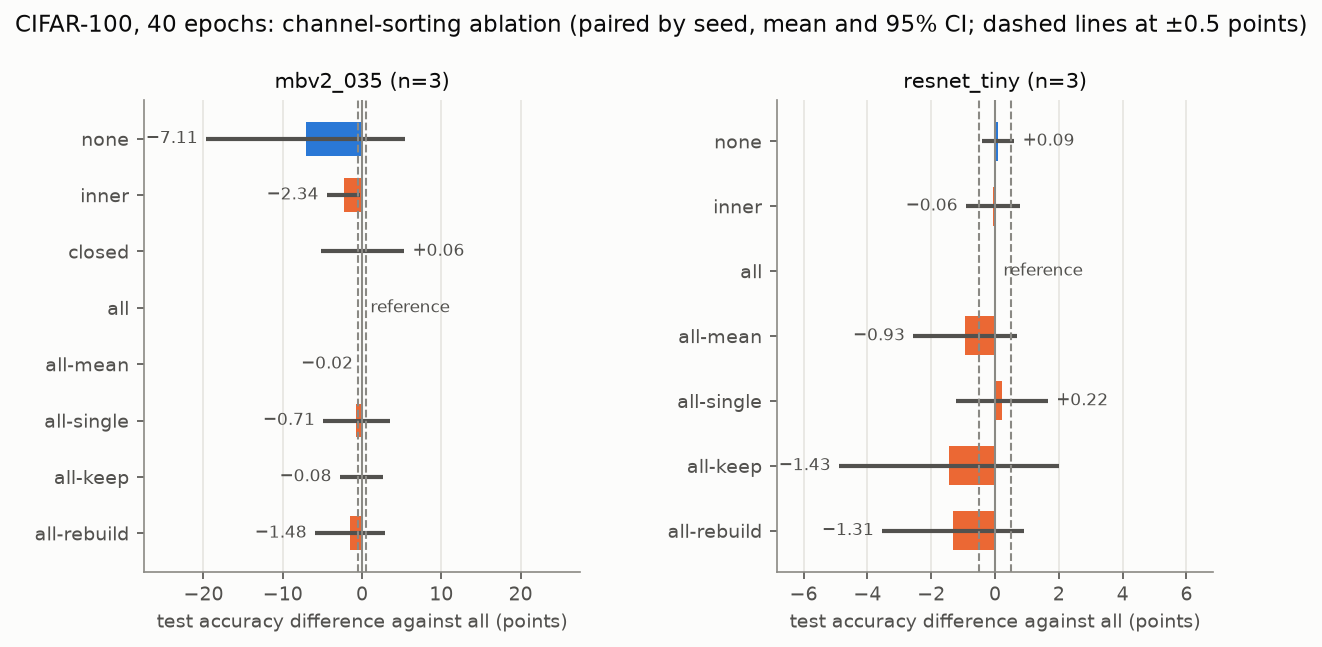
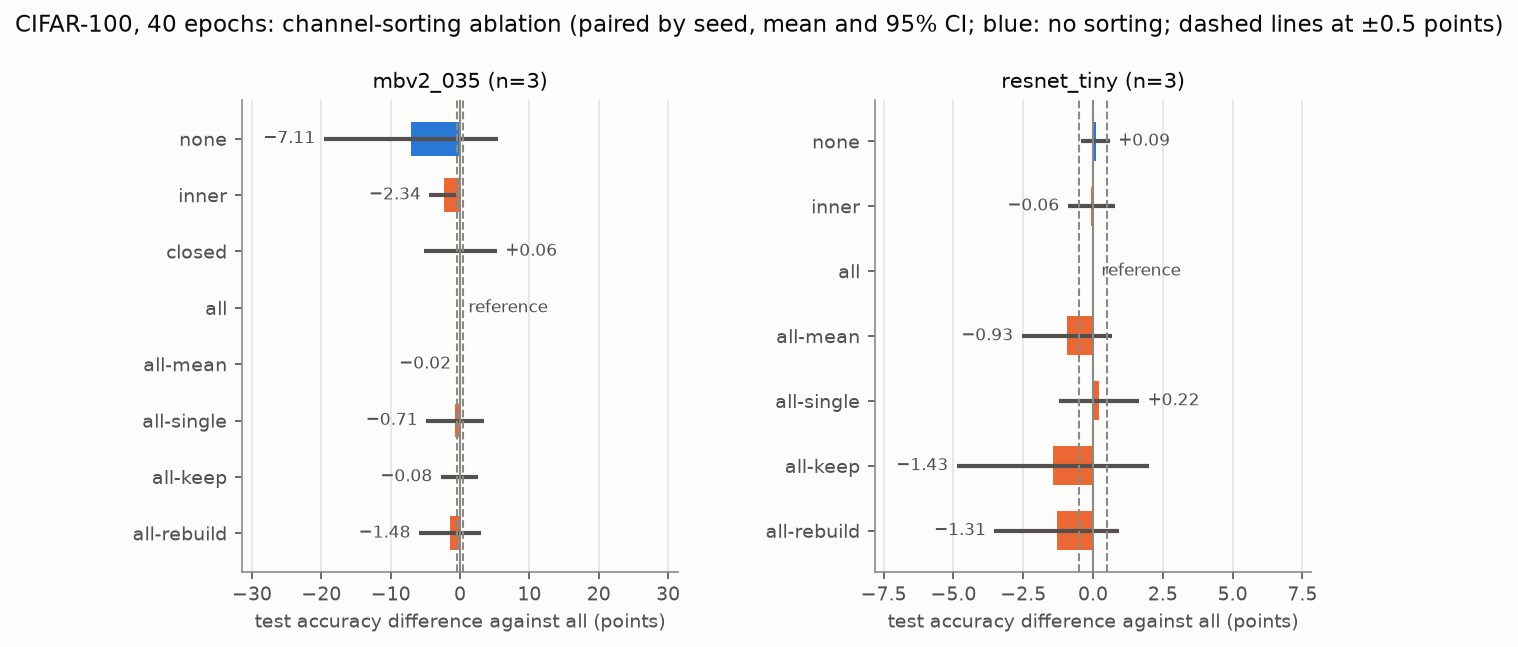
Sorting ablation: apply review fixes, float64 check of the sort
- Observations: per-seed numbers, paired differences against the
  baseline, multiple-comparison caveat, and inconclusive wording where
  the confidence interval allows no decision.
- MobileNetV2 output change after sorting (up to 7.9e-3 in float32) is
  float32 rounding: a float64 rerun gives at most 7.4e-14.
- Limitations: the 3-seed ablation has much wider intervals.
- Reproduction: baseline seeds 0, 1, 2.
- Plot: more room for value labels; note that blue means no sorting.

diff --git a/examples/sort_report.py b/examples/sort_report.py
@@ -256,7 +256,7 @@ def plot(groups: dict, out: Path) -> Path | None:
         ax.axvline(0, color=MUTED, linewidth=1)
         for x in (-THRESHOLD, THRESHOLD):
             ax.axvline(x, color=MUTED, linewidth=1, linestyle="--")
-        span = max(extent) * 1.4  # room for the value labels
+        span = max(extent) * 1.6  # room for the value labels
         ax.set_xlim(-span, span)
         ax.set_yticks(ys, settings)
         ax.grid(axis="y", visible=False)
@@ -268,7 +268,9 @@ def plot(groups: dict, out: Path) -> Path | None:
     head = f"{DATASETS.get(ds, ds)}, {ep} epochs: " if one_facet else ""
     many = any(len(rs) > 1 for f in facets for rs in groups[f].values())
     stat = "paired by seed, mean and 95% CI; " if many else ""
-    fig.suptitle(f"{head}channel-sorting ablation ({stat}dashed lines at ±{THRESHOLD:g} points)", y=1.02)
+    fig.suptitle(
+        f"{head}channel-sorting ablation ({stat}blue: no sorting; dashed lines at ±{THRESHOLD:g} points)", y=1.02
+    )
     fig.subplots_adjust(wspace=0.45)
     out.mkdir(parents=True, exist_ok=True)
     save(fig, out, "sort_ablation.png")

diff --git a/docs/experiments.en.md b/docs/experiments.en.md
@@ -206,11 +206,11 @@ Values are means over 3 seeds; differences are means of the per-seed paired diff
 
 Observations:
 
-1. **On MobileNetV2, the NetAug result changes a lot from seed to seed, and sorting reduces the loss.** Without sorting, the 3 seeds give 36.50%, 28.06% and 13.46%. The baseline with the same seeds gives 41.61%, 41.81% and 41.08% (seeds 1 and 2 were run separately, results in `runs/sort_ablation_baseline.jsonl`). `all` is above `none` in every seed (+3.41, +5.06 and +12.87 percentage points), but still 1.70 to 14.75 percentage points below the baseline. The confidence interval includes 0, so "sorting helps MobileNetV2" is undecided.
-2. **On MobileNetV2, the sort scope of the official implementation (`inner`) is worse than `all`**: −2.34 [−4.43, −0.25], negative in all 3 seeds (−1.96, −3.30 and −1.75). `closed` and `all` show no measurable difference.
-3. **On TinyResNet, sorting gives no real gain**: `all` against `none` is −0.09 [−0.60, +0.42], and `inner` against `none` is −0.15 [−0.55, +0.24]. Both upper bounds are below +0.5.
-4. **How the importance is combined and what happens to the optimizer state have no measurable effect.** On MobileNetV2, `all-mean` chooses almost the same permutation as `all` (0.1 groups different per sort on average); the difference is −0.02 [−0.08, +0.03]. The other settings have mean differences from −1.48 to +0.22 percentage points, and all their confidence intervals include 0.
-5. **Sorting keeps the function the same, but the two models move very different numbers of channels into the base.** The largest change of the max-width output, relative to the largest logit, is at most 7e-7 for TinyResNet and at most 7.4e-4 for MobileNetV2 (7.9e-3 against a logit of 10.8; the cause was not checked). On TinyResNet, the 39 sorts of a run move 0 to 2 channels into the base in total (as in Sections 3.2 and 4.5); on MobileNetV2 they move 931 to 4,500 channels. This difference may be why sorting has a clear effect only on MobileNetV2 (not proven).
+1. **On MobileNetV2, the NetAug result changes a lot from seed to seed; in these 3 seeds, sorting reduced the loss.** Without sorting, the seeds give 36.50%, 28.06% and 13.46%. The baseline with the same seeds gives 41.61%, 41.81% and 41.08% (seed 0 in `runs/diag/mbv2_default_init/`, seeds 1 and 2 in `runs/sort_ablation_baseline.jsonl`). `all` is above `none` in every seed (+3.41, +5.06 and +12.87 percentage points), but the confidence interval includes 0, so the result is inconclusive. Against the baseline, `none` is −15.49 [−43.70, +12.72] and `all` is −8.38 [−24.60, +7.84], negative in all 3 seeds; even the exported ×3 model (3.72 million parameters) reaches at most 34.21%.
+2. **On MobileNetV2, the sort scope of the official implementation (`inner`) is worse than `all`**: −2.34 [−4.43, −0.25], negative in all 3 seeds (−1.96, −3.30 and −1.75). This is one of 13 comparisons against `all`, with no correction for multiple comparisons. `closed` against `all` is +0.06 [−5.20, +5.32]: inconclusive.
+3. **On TinyResNet, sorting gives no real gain**: `all` against `none` is −0.09 [−0.60, +0.42], and `inner` against `none` is −0.15 [−0.55, +0.24]. Both upper bounds are below +0.5. The other settings are inconclusive against `none`.
+4. **For how the importance is combined and what happens to the optimizer state, only `all-mean` (MobileNetV2) gives a decision.** It chooses almost the same permutation as `all` (0.1 groups different per sort on average); the difference is −0.02 [−0.08, +0.03]: no real difference. All other settings are inconclusive (confidence intervals 2.9 to 8.9 percentage points wide). On TinyResNet, `all-mean`, `all-keep` and `all-rebuild` are below `all` in all 3 seeds, and the exported widths of `all-keep` and `all-rebuild` are also 1.0 to 1.4 percentage points lower.
+5. **Sorting keeps the function the same.** The largest change of the max-width output, relative to the largest logit, is at most 6.7e-7 for TinyResNet and at most 7.3e-4 for MobileNetV2 (7.9e-3 against a logit of 10.8). Because the MobileNetV2 value is larger, it was checked again in float64: in a 10-epoch rerun (`all-single`, seed 2), the output difference before and after each sort is at most 7.4e-14 in float64, while the same sorts give 2e-6 to 1.4e-4 in float32. So this is float32 rounding error amplified by the network, not a change of the function. The numbers of channels moved into the base are very different: the 39 sorts of a TinyResNet run move 0 to 2 channels in total (as in Sections 3.2 and 4.5), and those of a MobileNetV2 run move 931 to 4,500. This may be why only the MobileNetV2 result changes clearly with sorting (not proven).
 
 ### 4.8 Possible causes (not proven)
 
@@ -218,7 +218,7 @@ The gains of the paper come from MobileNet-class models on ImageNet, where augme
 
 ## 5. Limitations
 
-- CIFAR-10 has only 3 seeds per setting; CIFAR-100 has 8 seeds per setting; Section 4.6 (MobileNetV2) has only 1 seed, and the sorting ablation has only 3 seeds. Differences smaller than about 0.5 percentage points cannot be told apart from seed noise.
+- CIFAR-10 has only 3 seeds per setting; CIFAR-100 has 8 seeds per setting; Section 4.6 (MobileNetV2) has only 1 seed, and the sorting ablation has only 3 seeds. In the 8-seed TinyResNet experiments, differences smaller than about 0.5 percentage points cannot be told apart from seed noise; the 3-seed sorting ablation is much less certain (confidence interval half-widths up to 3.9 percentage points on TinyResNet and 16.7 on MobileNetV2).
 - Only 40 epochs (80 for a control), 32×32 images and two architectures were used. ImageNet was not tested.
 - During some runs the GPU was also running other programs, and the second batch ran in fp16 on a Colab Tesla T4, so the run times are only approximate.
 
@@ -244,4 +244,4 @@ uv run python examples/sort_report.py runs/sort_ablation.jsonl --lang en --plot 
 - Main options of `cifar_netaug.py`: `--width` (base width multiplier), `--depth`, `--init {base,max}`, `--stop-aug`, `--sort-every`, `--granularity {group,global}`, `--grad-log-every N`, `--amp {bf16,fp16,off}`, `--warmup N`.
 - `sort_report.py` prints the results table of Section 4.7 to standard output (`--lang zh` gives the Chinese header row); `--plot` writes `sort_ablation.png`.
 - `examples/run_cifar100_regime.sh` is an earlier CIFAR-100 control script. This document does not use its results.
-- MobileNetV2: `uv run python examples/cifar_netaug.py --model {mbv2_035,mbv2_050} --method {baseline,netaug} --dataset cifar100 --epochs 40 --seed 0 --eval-widths 1.0 2.0 3.0 --out <file>`, optionally with `--warmup 5`, `--grad-log-every 20`, `--alpha 0`, or `--lr 0.05 --wd 1e-3`.
+- MobileNetV2: `uv run python examples/cifar_netaug.py --model {mbv2_035,mbv2_050} --method {baseline,netaug} --dataset cifar100 --epochs 40 --seed {0,1,2} --eval-widths 1.0 2.0 3.0 --out <file>`, optionally with `--warmup 5`, `--grad-log-every 20`, `--alpha 0`, or `--lr 0.05 --wd 1e-3`.

diff --git a/docs/experiments.md b/docs/experiments.md
@@ -206,11 +206,11 @@ CIFAR-100，40 epoch，seed 0, 1, 2。
 
 觀察：
 
-1. **MobileNetV2 上，NetAug 的結果在 seed 之間差很多，排序減少了損失。** 不排序時 3 個 seed 是 36.50%、28.06%、13.46%；同 seed 的 baseline 是 41.61%、41.81%、41.08%（seed 1、2 另外執行，結果在 `runs/sort_ablation_baseline.jsonl`）。`all` 在每個 seed 都比 `none` 高（+3.41、+5.06、+12.87 個百分點），但仍比 baseline 低 1.70 到 14.75 個百分點。信賴區間跨過 0，所以「排序對 MobileNetV2 有增益」判讀為無法判定。
-2. **MobileNetV2 上，官方實作的排序範圍（`inner`）比 `all` 差**：−2.34 [−4.43, −0.25]，3 個 seed 都是負的（−1.96、−3.30、−1.75）。`closed` 和 `all` 沒有可分辨的差異。
-3. **TinyResNet 上，排序沒有實質增益**：`all` 對 `none` 是 −0.09 [−0.60, +0.42]，`inner` 對 `none` 是 −0.15 [−0.55, +0.24]，上限都小於 +0.5。
-4. **重要度的合計方式與 optimizer 狀態的處理沒有可分辨的效果。** MobileNetV2 上 `all-mean` 幾乎選出和 `all` 相同的排列（每次排序平均 0.1 個群組不同），差異 −0.02 [−0.08, +0.03]。其他設定的平均差異在 −1.48 到 +0.22 個百分點之間，信賴區間都跨過 0。
-5. **排序保持函數不變，但兩個模型移入 base 的通道數差很多。** 最大寬度輸出的最大變化相對於最大 logit：TinyResNet 在 7e-7 以內，MobileNetV2 在 7.4e-4 以內（7.9e-3 對 logit 10.8，原因未檢查）。TinyResNet 每個執行的 39 次排序合計只移入 0 到 2 個通道（與第 3.2、4.5 節一致），MobileNetV2 合計移入 931 到 4,500 個通道。排序只在 MobileNetV2 上有明顯影響，可能和這個差別有關（未證實）。
+1. **MobileNetV2 上，NetAug 的結果在 seed 之間差很多；這 3 個 seed 中，排序都減少了損失。** 不排序時是 36.50%、28.06%、13.46%。同 seed 的 baseline 是 41.61%、41.81%、41.08%（seed 0 在 `runs/diag/mbv2_default_init/`，seed 1、2 在 `runs/sort_ablation_baseline.jsonl`）。`all` 在每個 seed 都比 `none` 高（+3.41、+5.06、+12.87 個百分點），但信賴區間跨過 0，判讀為無法判定。對 baseline，`none` 是 −15.49 [−43.70, +12.72]，`all` 是 −8.38 [−24.60, +7.84]，3 個 seed 都是負的；匯出的 ×3 模型（372 萬個參數）最高也只有 34.21%。
+2. **MobileNetV2 上，官方實作的排序範圍（`inner`）比 `all` 差**：−2.34 [−4.43, −0.25]，3 個 seed 都是負的（−1.96、−3.30、−1.75）。這是對 `all` 的 13 個比較之一，沒有做多重比較校正。`closed` 對 `all` 是 +0.06 [−5.20, +5.32]，判讀為無法判定。
+3. **TinyResNet 上，排序沒有實質增益**：`all` 對 `none` 是 −0.09 [−0.60, +0.42]，`inner` 對 `none` 是 −0.15 [−0.55, +0.24]，上限都小於 +0.5。其他設定對 `none` 都是無法判定。
+4. **重要度的合計方式與 optimizer 狀態的處理，只有 `all-mean`（MobileNetV2）可以判讀。** 它幾乎選出和 `all` 相同的排列（每次排序平均 0.1 個群組不同），差異 −0.02 [−0.08, +0.03]，沒有實質差異。其他設定都是無法判定（信賴區間寬 2.9 到 8.9 個百分點）。TinyResNet 上 `all-mean`、`all-keep`、`all-rebuild` 在 3 個 seed 都低於 `all`；`all-keep` 與 `all-rebuild` 匯出的各寬度也低 1.0 到 1.4 個百分點。
+5. **排序保持函數不變。** 最大寬度輸出的最大變化相對於最大 logit：TinyResNet 在 6.7e-7 以內，MobileNetV2 在 7.3e-4 以內（7.9e-3 對 logit 10.8）。MobileNetV2 的值較大，所以另外用 float64 重算：重跑 10 epoch（`all-single`、seed 2），每次排序前後的輸出差異在 float64 下是 7.4e-14 以內，同一次排序在 float32 下是 2e-6 到 1.4e-4。所以這是 float32 的捨入誤差被網路放大，不是排序改變了函數。移入 base 的通道數差很多：TinyResNet 每個執行的 39 次排序合計 0 到 2 個（與第 3.2、4.5 節一致），MobileNetV2 是 931 到 4,500 個。這可能是只有 MobileNetV2 的結果隨排序明顯變化的原因（未證實）。
 
 ### 4.8 可能的原因（未證實）
 
@@ -218,7 +218,7 @@ CIFAR-100，40 epoch，seed 0, 1, 2。
 
 ## 5. 限制
 
-- CIFAR-10 每種設定只有 3 個 seed；CIFAR-100 每種設定 8 個 seed；MobileNetV2 的第 4.6 節只有 1 個 seed，排序消融只有 3 個 seed。小於約 0.5 個百分點的差異無法和 seed 雜訊區分。
+- CIFAR-10 每種設定只有 3 個 seed；CIFAR-100 每種設定 8 個 seed；MobileNetV2 的第 4.6 節只有 1 個 seed，排序消融只有 3 個 seed。8 個 seed 的 TinyResNet 實驗中，小於約 0.5 個百分點的差異無法和 seed 雜訊區分；3 個 seed 的排序消融不確定性大得多（信賴區間半寬在 TinyResNet 最多 3.9、在 MobileNetV2 最多 16.7 個百分點）。
 - 只用 40 epoch（對照組 80 epoch）、32×32 影像與兩種架構，沒有測 ImageNet。
 - 部分執行期間顯示卡同時在跑其他程式，且後半批次在 Colab Tesla T4 上以 fp16 執行，所以執行時間只能大略參考。
 
@@ -244,4 +244,4 @@ uv run python examples/sort_report.py runs/sort_ablation.jsonl --lang zh --plot 
 - `cifar_netaug.py` 的主要選項：`--width`（base 寬度倍數）、`--depth`、`--init {base,max}`、`--stop-aug`、`--sort-every`、`--granularity {group,global}`、`--grad-log-every N`、`--amp {bf16,fp16,off}`、`--warmup N`。
 - `sort_report.py` 把第 4.7 節的結果表印到標準輸出（`--lang en` 產生英文表頭），`--plot` 寫出 `sort_ablation.png`。
 - `examples/run_cifar100_regime.sh` 是較早的 CIFAR-100 對照腳本，本文件沒有使用它的結果。
-- MobileNetV2：`uv run python examples/cifar_netaug.py --model {mbv2_035,mbv2_050} --method {baseline,netaug} --dataset cifar100 --epochs 40 --seed 0 --eval-widths 1.0 2.0 3.0 --out <檔案>`，可加 `--warmup 5`、`--grad-log-every 20`、`--alpha 0` 或 `--lr 0.05 --wd 1e-3`。
+- MobileNetV2：`uv run python examples/cifar_netaug.py --model {mbv2_035,mbv2_050} --method {baseline,netaug} --dataset cifar100 --epochs 40 --seed {0,1,2} --eval-widths 1.0 2.0 3.0 --out <檔案>`，可加 `--warmup 5`、`--grad-log-every 20`、`--alpha 0` 或 `--lr 0.05 --wd 1e-3`。
